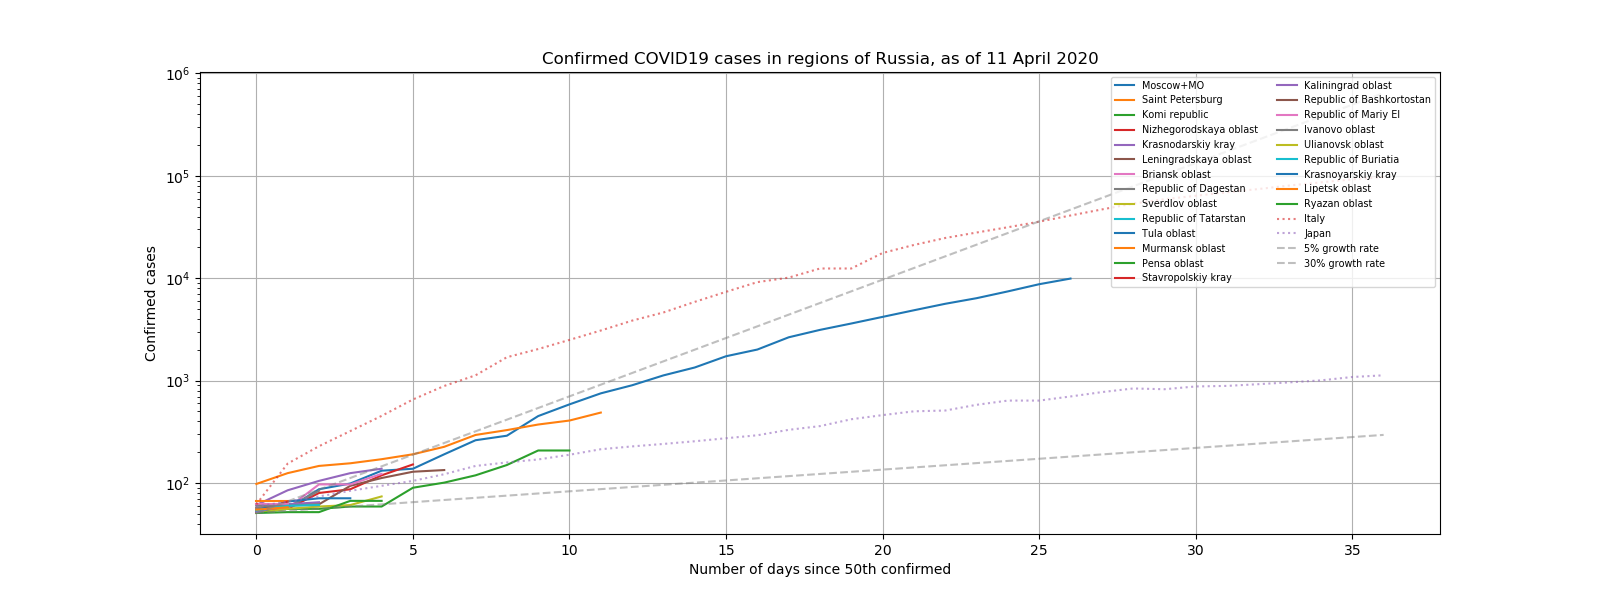
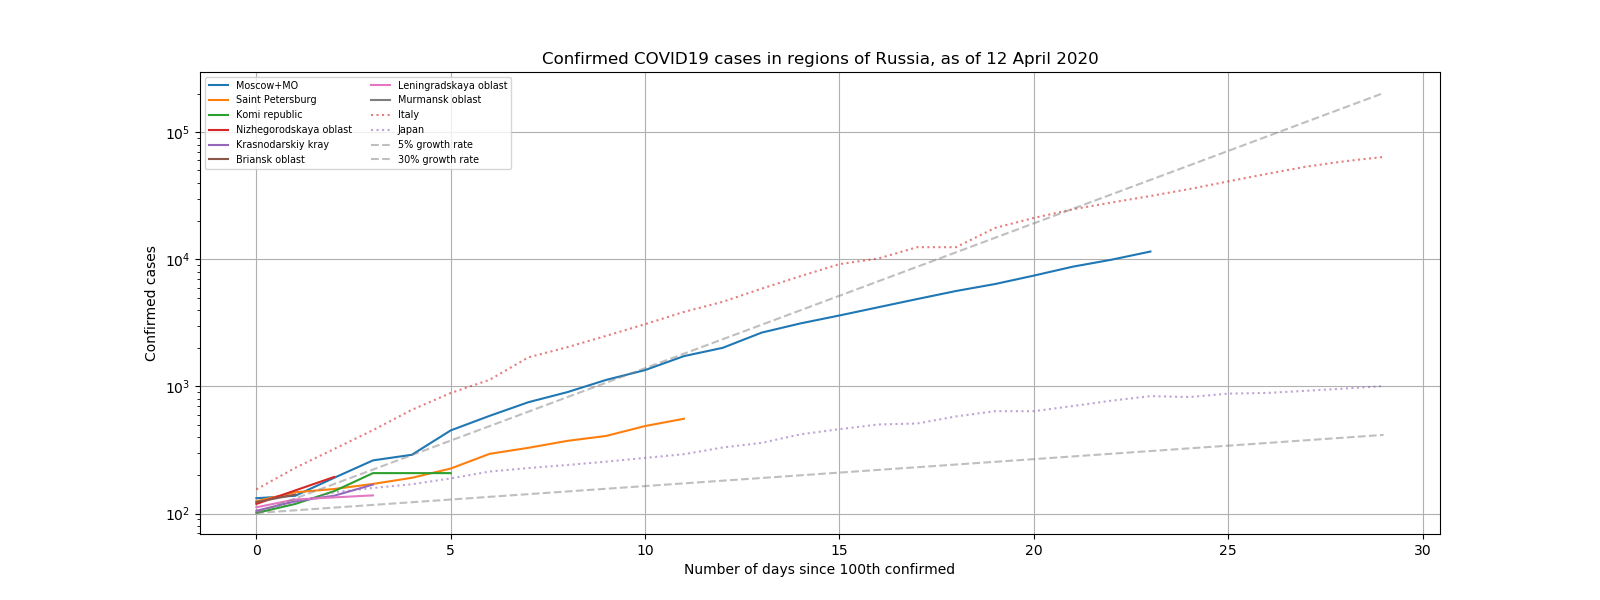
Update plots

diff --git a/python3/src/covid19ru/plot.py b/python3/src/covid19ru/plot.py
@@ -34,8 +34,11 @@ def timelines_preprocess()->Dict[Tuple[Province_State,Country_Region],TimeLine]:
   del tls[('Moscow oblast','Russia')]
   return tls
 
-def plot(confirmed_min_threshold=50, show:bool=False,
-         save_name:Optional[str]=None, labels_in_russian:bool=False)->None:
+def plot(confirmed_min_threshold=100,
+         show:bool=False,
+         save_name:Optional[str]=None,
+         labels_in_russian:bool=False,
+         moscow_italy_right_margin:int=5)->None:
   plt.figure(figsize=(16, 6))
   plt.yscale('log')
 
@@ -47,7 +50,13 @@ def plot(confirmed_min_threshold=50, show:bool=False,
   out.update(timelines(country_region='Italy', default_loc=''))
   out.update(timelines(country_region='Japan', default_loc=''))
   lastdate=out[('Moscow+MO','Russia')].dates[-1]
-  ndays_in_russia_after_threshold=(lastdate-out[('Moscow+MO','Russia')].dates[0]).days
+
+  # Calculate number of days to show
+  ndays_in_russia_after_threshold=moscow_italy_right_margin
+  for c in out[('Moscow+MO','Russia')].confirmed:
+    if c<=confirmed_min_threshold:
+      continue
+    ndays_in_russia_after_threshold+=1
 
   for (ps,cr),tl in out.items():
     # print(ps,cr)
@@ -115,7 +124,7 @@ def plot(confirmed_min_threshold=50, show:bool=False,
   fontP.set_size('x-small')
 
   plt.grid(True)
-  plt.legend(loc='upper right', prop=fontP, ncol=2)
+  plt.legend(loc='upper left', prop=fontP, ncol=2)
 
   # handles, labels = plt.gca().get_legend_handles_labels()
   # # sort both labels and handles by labels
